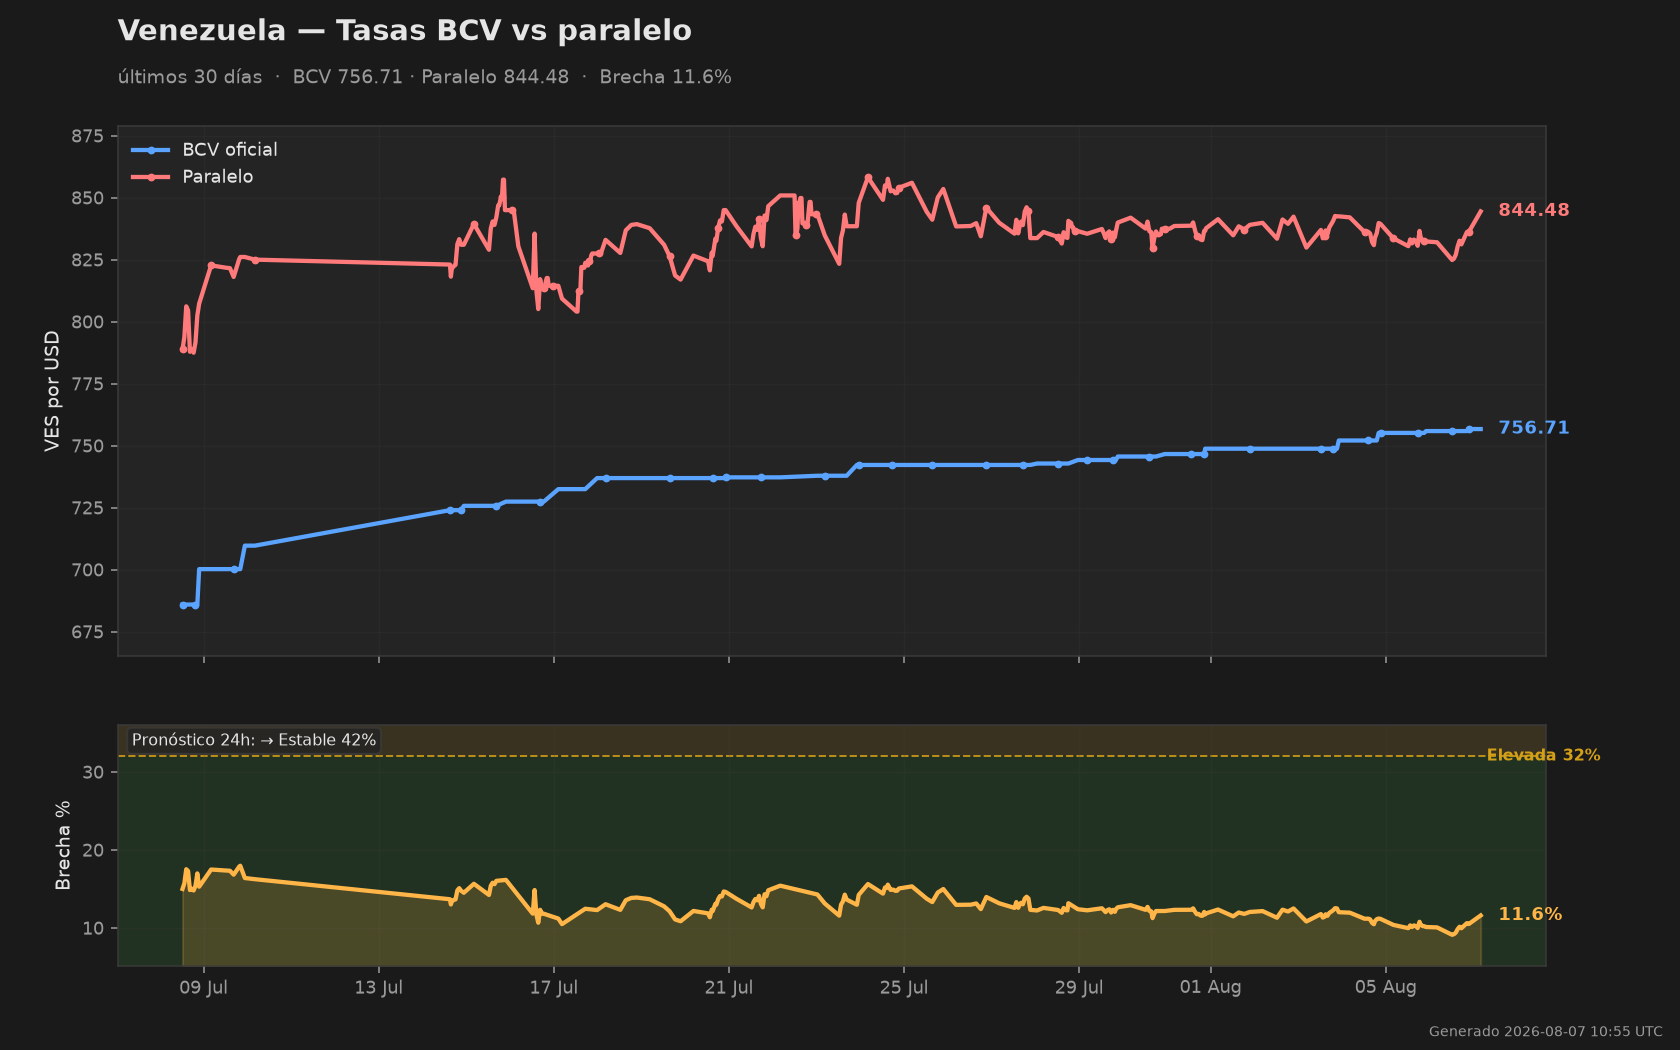
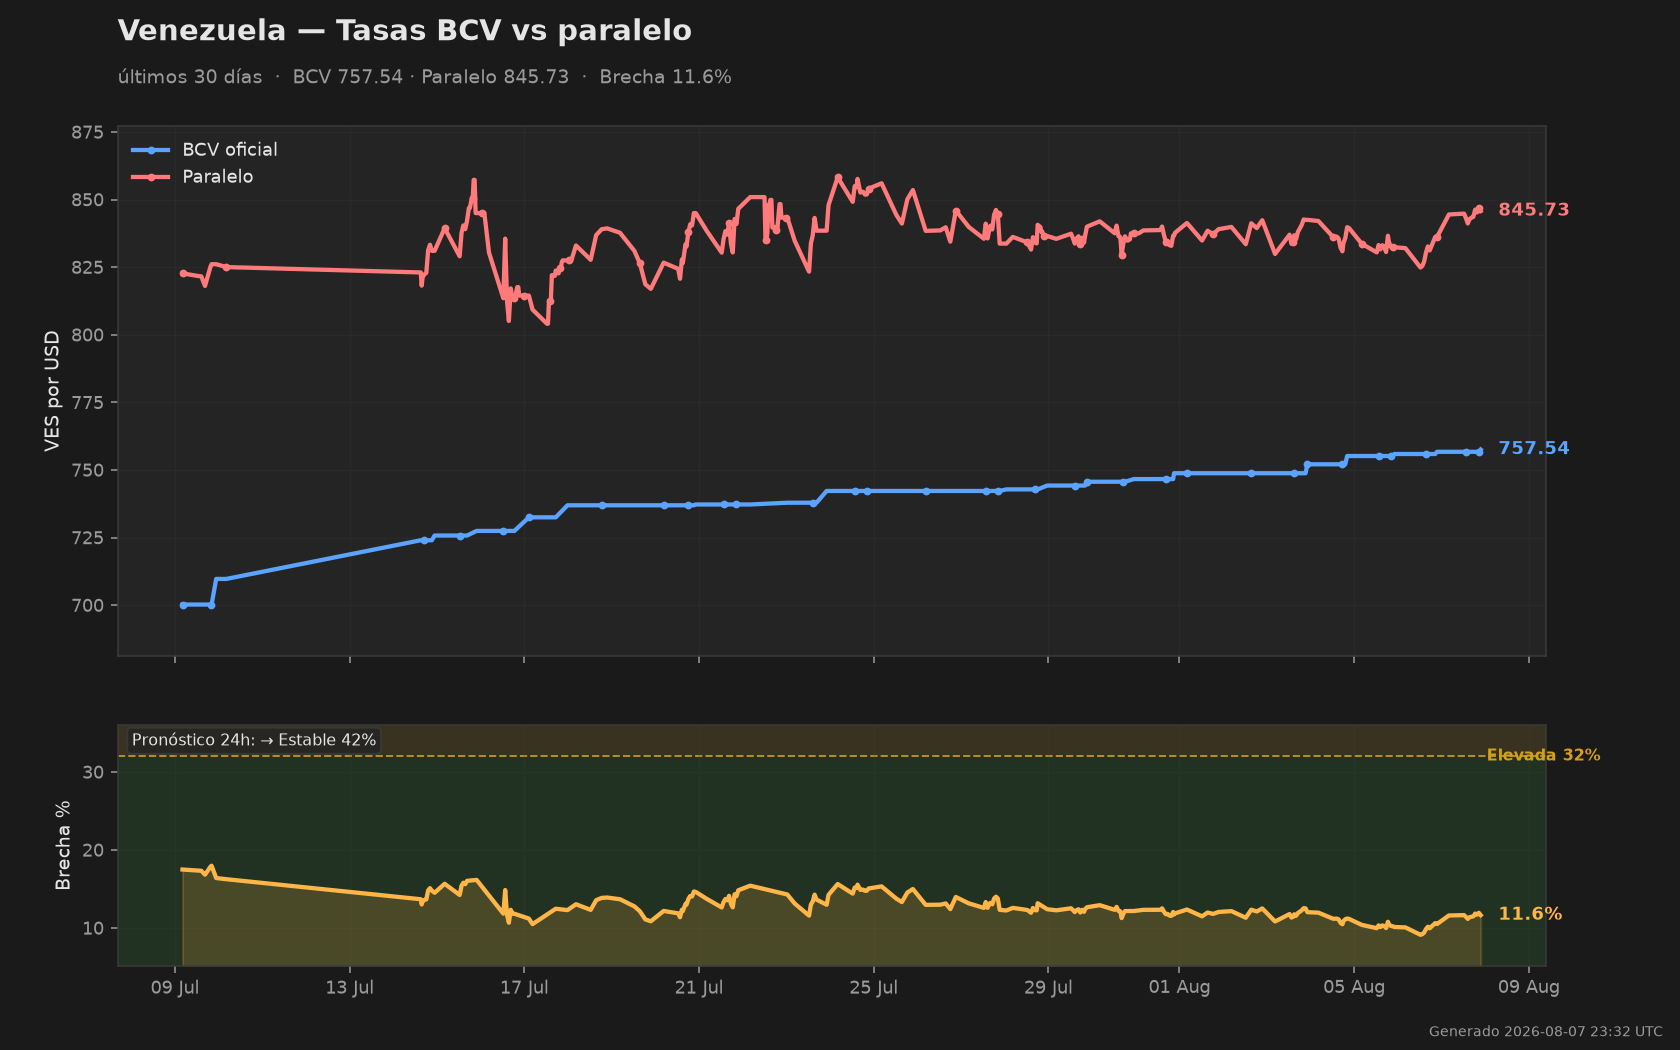
Dashboard update 2026-08-07 23:32 UTC

diff --git a/README.md b/README.md
@@ -10,12 +10,12 @@
 
 | Metric · Métrica | Value · Valor |
 |---|---|
-| BCV Oficial | **756.71** VES/USD |
-| Paralelo | **844.48** VES/USD |
+| BCV Oficial | **757.54** VES/USD |
+| Paralelo | **845.73** VES/USD |
 | Brecha · Spread | **11.6%** |
-| Binance P2P USDT/VES | **857.35** VES/USDT (+1.5% vs paralelo) |
+| Binance P2P USDT/VES | **857.00** VES/USDT (+1.3% vs paralelo) |
 | **Pronóstico 24h · 24h Forecast** | **→ Estable · Stable (57%)** |
-| Actualizado · Updated | 2026-08-07 04:05 UTC |
+| Actualizado · Updated | 2026-08-07 21:32 UTC |
 
 ![Venezuela BCV vs parallel rate — last 30 days](data/chart.png)
 
@@ -29,8 +29,8 @@ Cada día compiten dos modelos sobre el mismo pronóstico: una **línea base** (
 
 | Model · Modelo | Brier ↓ | vs Baseline | Forecasts Scored · Evaluados |
 |---|---|---|---|
-| naive (baseline) | 0.705 ± 0.053 | — | 79 |
-| stat | 0.684 ± 0.050 | −0.021 ≈ | 79 |
+| naive (baseline) | 0.707 ± 0.052 | — | 80 |
+| stat | 0.691 ± 0.051 | −0.016 ≈ | 80 |
 
 *Accumulating live data since May 2026 · Acumulando datos en vivo desde mayo 2026*
 
